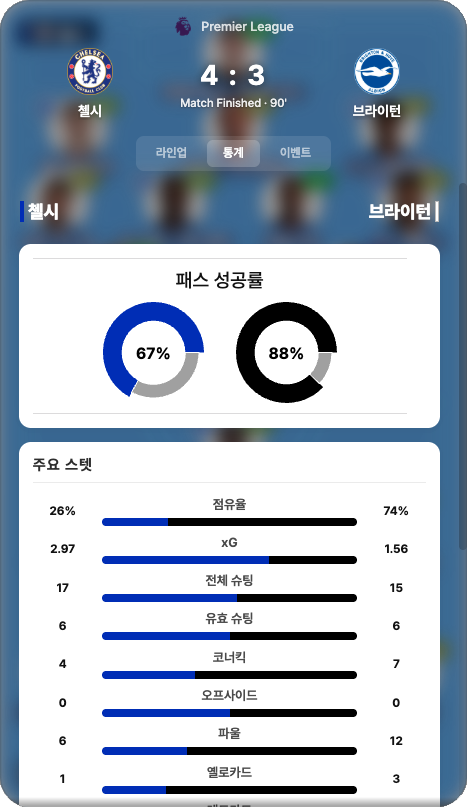
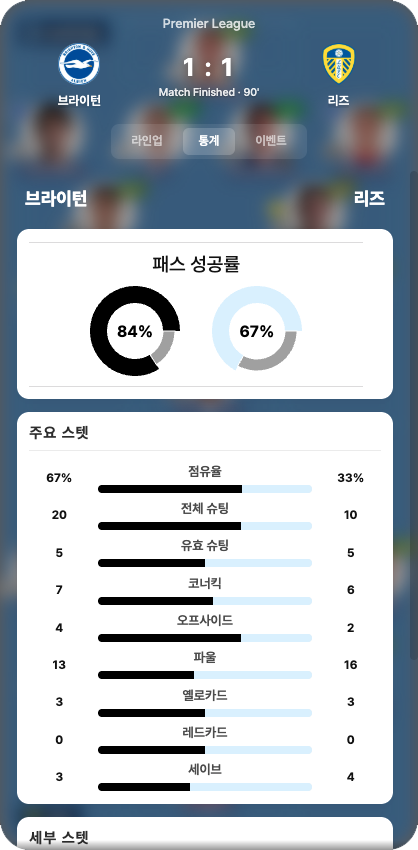
chore: change desktop images

diff --git a/src/components/body/MainBody.tsx b/src/components/body/MainBody.tsx
@@ -1,7 +1,7 @@
 import { Link } from 'react-router-dom';
 import { FontAwesomeIcon } from '@fortawesome/react-fontawesome';
 import { faDownload } from '@fortawesome/free-solid-svg-icons';
-import lineupAndTeamStats from '@asset/lineup_and_teamstat.png';
+import lineupAndTeamStats from '@asset/desktop/mainpage-desktop-lineup-and-stats.png';
 import footballayCover from '@asset/footballay_cover.png';
 import extensionDemo from '@asset/extension-assets/footballay-demo-screenshot-ko.png';
 import lineupFeature from '@asset/desktop/mainpage-feature-img-01-lineup.png';
